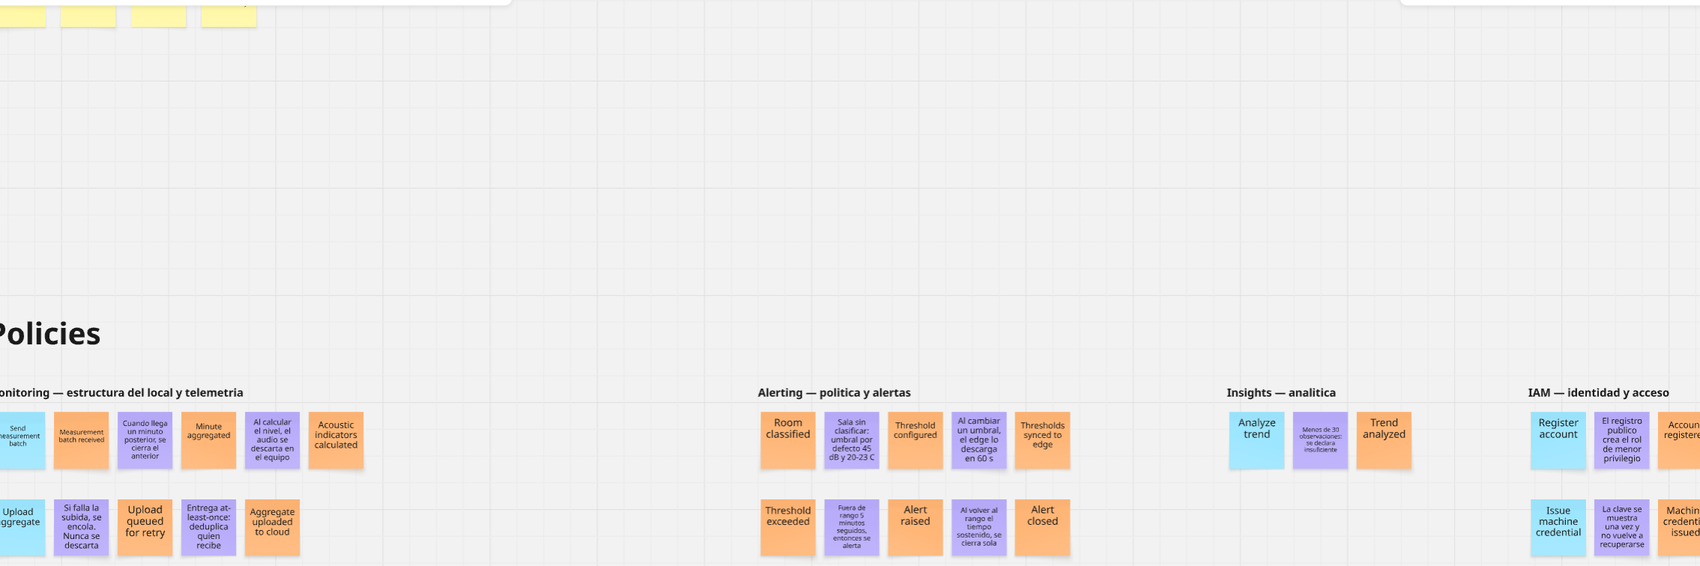
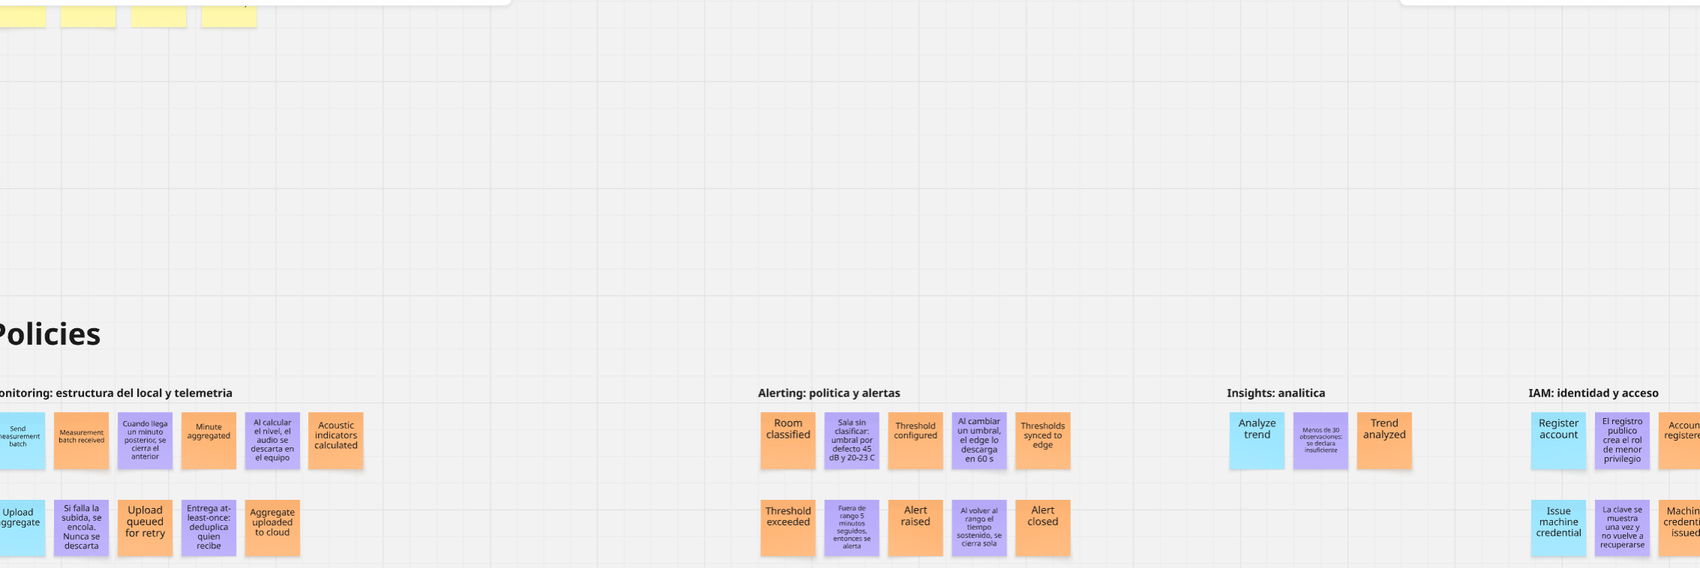
fix(chapter-4): redaccion en prosa y capturas mas cercanas en 4.1.1
Redaccion:

- Se retiran las rayas largas y las comillas angulares de todo el
  apartado y de los rotulos del board, que ahora usan dos puntos o
  parentesis.
- Los nombres de contextos, eventos y agregados pasan a texto normal.
  Monitoring, IAM, Minute aggregated o RoomReading se leian con estilo
  de codigo y color distinto, que no corresponde a un informe.
- Se elimina el meta-comentario sobre el propio metodo y se deja solo
  lo que describe el producto.
- La negrita se conserva para los titulos de paso y poco mas.

Capturas:

- Se rehacen las doce con el encuadre ajustado al contenido, sin
  margenes muertos ni recortes a medias.
- Se añaden tres vistas de detalle: el emparejamiento comando-evento
  en Monitoring, y el interior de los bounded contexts Monitoring y
  Alerting, que a pagina completa quedaban ilegibles.

Figuras renumeradas a 2-42, correlativas y sin duplicados.

diff --git a/README.md b/README.md
@@ -1231,140 +1231,152 @@ El punto de partida es el Big Picture EventStorming de la sección 2.4, que mode
 <a id="411-design-level-eventstorming"></a>
 ### 4.1.1. Design-Level EventStorming.
 
-La sesión de Design-Level EventStorming partió del Big Picture del apartado 2.4 y lo llevó al nivel de detalle que el diseño táctico necesita. El equipo trabajó sobre un único board, añadiendo **una capa por paso y dejando constancia de cada una antes de pasar a la siguiente**, de modo que el modelo pueda leerse como un proceso y no solo como un resultado. La secuencia recorrió nueve pasos.
+La sesión de Design-Level EventStorming partió del Big Picture del apartado 2.4 y lo llevó al nivel de detalle que necesita el diseño táctico. El equipo trabajó sobre un único board y fue añadiendo una capa por paso, dejando constancia de cada una antes de pasar a la siguiente. La secuencia recorrió nueve pasos.
 
 **Paso 1: Collect Domain Events**
 
-Se recogieron los hechos relevantes del dominio, redactados siempre en pasado y sobre post-its naranjas. En esta etapa no se discute el orden ni la causa: solo se enumera lo que ocurre. Salieron 25 eventos, desde la captura de una muestra en el sensor hasta el cierre de una alerta.
+Se recogieron los hechos relevantes del dominio, redactados siempre en pasado y sobre post-its naranjas. En esta etapa no se discute el orden ni la causa: solo se enumera lo que ocurre. Salieron treinta eventos, desde la captura de una muestra en el sensor hasta la revocación de una credencial.
 
-<p align="center"><img src="assets/event-storming/design-level/paso-1-collect-domain-events.png" alt="Paso 1 — Collect Domain Events" width="1000"></p>
+<p align="center"><img src="assets/event-storming/design-level/paso-1-collect-domain-events.png" alt="Paso 1. Collect Domain Events" width="1000"></p>
 
-<p align="center"><em>Figura 10.</em> Paso 1 — los 25 domain events recogidos sin orden.</p>
+<p align="center"><em>Figura 10.</em> Los treinta domain events recogidos sin orden.</p>
 
 **Paso 2: Timeline**
 
-Los mismos eventos se ordenaron cronológicamente de izquierda a derecha y se agruparon en las siete fases del proceso: captura en el dispositivo, procesamiento en el Edge, alertas locales, sincronización con la nube, configuración y alta, respuesta del administrador, y analítica. No se añadió ni se eliminó ningún evento; el paso consiste únicamente en darles secuencia.
+Los mismos eventos se ordenaron y se agruparon según la parte del dominio a la que pertenecen: la estructura del local y su telemetría, la política de alertas, la analítica y la identidad. No se añadió ni se eliminó ningún evento, porque el paso consiste únicamente en darles secuencia y vecindad.
 
-<p align="center"><img src="assets/event-storming/design-level/paso-2-timeline.png" alt="Paso 2 — Timeline" width="1000"></p>
+<p align="center"><img src="assets/event-storming/design-level/paso-2-timeline.png" alt="Paso 2. Timeline" width="1000"></p>
 
-<p align="center"><em>Figura 11.</em> Paso 2 — la línea temporal organizada en siete fases.</p>
+<p align="center"><em>Figura 11.</em> La línea temporal organizada por áreas del dominio.</p>
 
 **Paso 3: Pain and Pivotal Points**
 
-Sobre la línea temporal se marcaron dos cosas distintas. Los **pivotal events** son aquellos en los que el negocio cambia de estado y el vocabulario cambia con él: `MinuteAggregated`, `ThresholdExceeded`, `AggregateUploadedToCloud`, `RoomClassified` y `TrendAnalyzed`. Los **pain points** son las fricciones sin resolver: no se distingue una sala silenciosa de un dispositivo caído, el reintento del Edge puede duplicar un agregado, una sala nueva sin clasificar quedaría sin vigilancia, un miembro puede reportar disconfort con la medición en rango, el reloj sin sincronizar desordena el minuto, y la privacidad del audio debe poder demostrarse.
+Sobre la línea temporal se marcaron dos cosas distintas. Los pivotal events son aquellos en los que el negocio cambia de estado y el vocabulario cambia con él: Minute aggregated, Threshold exceeded, Room classified y Trend analyzed. Los pain points son las fricciones que quedaban sin resolver: no se distingue una sala silenciosa de un dispositivo caído, el reintento del Edge puede duplicar un agregado, una sala nueva sin clasificar quedaría sin vigilancia, un miembro puede reportar disconfort con la medición dentro de rango, el reloj sin sincronizar desordena el minuto y la privacidad del audio debe poder demostrarse.
 
-<p align="center"><img src="assets/event-storming/design-level/paso-3-pain-and-pivotal-points.png" alt="Paso 3 — Pain and Pivotal Points" width="1000"></p>
+<p align="center"><img src="assets/event-storming/design-level/paso-3-pain-and-pivotal-points.png" alt="Paso 3. Pain and Pivotal Points" width="1000"></p>
 
-<p align="center"><em>Figura 12.</em> Paso 3 — pivotal events y pain points identificados sobre la línea temporal.</p>
+<p align="center"><em>Figura 12.</em> Pivotal events y pain points señalados sobre la línea temporal.</p>
 
 **Paso 4: Commands**
 
-Se incorporaron los comandos que originan cada evento, en imperativo y sobre post-its azules, con el actor que los ejecuta encima. Aquí aparece una distinción que condiciona el diseño de seguridad: el **dispositivo IoT es un actor no humano** que ejecuta `Send Measurement Batch` sin intervención de nadie, de modo que su autenticación no puede ser la de una persona.
+Se incorporaron los comandos que originan cada evento, en imperativo y sobre post-its azules, colocando cada uno junto al evento que produce. Aquí aparece una distinción que condiciona el diseño de seguridad: el dispositivo IoT es un actor no humano que ejecuta Send measurement batch sin intervención de nadie, de modo que su autenticación no puede ser la de una persona.
 
-<p align="center"><img src="assets/event-storming/design-level/paso-4-commands.png" alt="Paso 4 — Commands" width="1000"></p>
+<p align="center"><img src="assets/event-storming/design-level/paso-4-commands.png" alt="Paso 4. Commands" width="1000"></p>
 
-<p align="center"><em>Figura 13.</em> Paso 4 — comandos y actores que los ejecutan.</p>
+<p align="center"><em>Figura 13.</em> Cada comando junto al evento que produce, y los actores que los ejecutan.</p>
+
+<p align="center"><img src="assets/event-storming/design-level/paso-4a-commands-monitoring.png" alt="Detalle del emparejamiento entre comandos y eventos" width="1000"></p>
+
+<p align="center"><em>Figura 14.</em> Detalle del área de Monitoring, donde se aprecia el emparejamiento entre cada comando y su evento.</p>
 
 **Paso 5: Policies**
 
-Se establecieron las reglas que reaccionan a un evento y producen otro, redactadas como *«cuando… entonces…»*. Cuatro de las ocho resuelven directamente un pain point del paso 3: el cierre por marca de agua resuelve el reloj sin sincronizar, la entrega at-least-once resuelve la duplicación del reintento, el umbral por defecto cubre la sala recién registrada, y el descarte del audio en el propio dispositivo sostiene la garantía de privacidad.
+Se establecieron las reglas que reaccionan a un evento y producen otro, redactadas como *cuando ocurre esto, entonces sucede aquello*. Varias de ellas resuelven directamente un pain point del paso anterior: el cierre por marca de agua resuelve el reloj sin sincronizar, la entrega at-least-once resuelve la duplicación del reintento, el umbral por defecto cubre la sala recién registrada y el descarte del audio en el propio dispositivo sostiene la garantía de privacidad.
 
-<p align="center"><img src="assets/event-storming/design-level/paso-5-policies.png" alt="Paso 5 — Policies" width="1000"></p>
+<p align="center"><img src="assets/event-storming/design-level/paso-5-policies.png" alt="Paso 5. Policies" width="1000"></p>
 
-<p align="center"><em>Figura 14.</em> Paso 5 — las ocho políticas de negocio y su trazabilidad con los pain points.</p>
+<p align="center"><em>Figura 15.</em> Las políticas de negocio intercaladas entre los eventos que las disparan y los que producen.</p>
 
 **Paso 6: Read Models**
 
 Se identificaron las vistas que alguien consulta para decidir. El criterio aplicado fue estricto: un read model solo existe si hay un actor concreto que lo mira y una decisión que depende de él. Salieron seis, desde el semáforo que consulta el miembro antes de reservar hasta el reporte histórico que sustenta una decisión de inversión.
 
-<p align="center"><img src="assets/event-storming/design-level/paso-6-read-models.png" alt="Paso 6 — Read Models" width="1000"></p>
+<p align="center"><img src="assets/event-storming/design-level/paso-6-read-models.png" alt="Paso 6. Read Models" width="1000"></p>
 
-<p align="center"><em>Figura 15.</em> Paso 6 — los seis read models y quién consulta cada uno.</p>
+<p align="center"><em>Figura 16.</em> Los read models colocados bajo los eventos que los alimentan.</p>
 
 **Paso 7: External Systems**
 
-Se señalaron los sistemas fuera del control del equipo: el proveedor meteorológico, el broker MQTT y el servicio de notificaciones. Ninguno se modela como parte del dominio; cada uno marca un punto de la frontera donde hará falta un adaptador que traduzca su lenguaje al propio.
+Se señalaron los sistemas que quedan fuera del control del equipo: el proveedor meteorológico, el broker MQTT y el servicio de notificaciones. Ninguno se modela como parte del dominio, y cada uno marca un punto de la frontera donde hará falta un adaptador que traduzca su lenguaje al propio.
 
-<p align="center"><img src="assets/event-storming/design-level/paso-7-external-systems.png" alt="Paso 7 — External Systems" width="1000"></p>
+<p align="center"><img src="assets/event-storming/design-level/paso-7-external-systems.png" alt="Paso 7. External Systems" width="1000"></p>
 
-<p align="center"><em>Figura 16.</em> Paso 7 — sistemas externos y puntos de integración.</p>
+<p align="center"><em>Figura 17.</em> Sistemas externos situados en sus puntos de integración.</p>
 
 **Paso 8: Aggregates**
 
-Los comandos y eventos que operan sobre la misma entidad se agruparon en unidades consistentes. Resultaron ocho agregados: `Site`, `Room`, `Device`, `RoomReading`, `Threshold`, `Alert`, `Analysis` y `Account`. Los cuatro primeros comparten la misma raíz —la estructura física del local— y por eso terminan juntos en el paso siguiente.
+Los comandos y eventos que operan sobre la misma entidad se agruparon en unidades consistentes. Resultaron ocho agregados: Site, Room, Device, RoomReading, Threshold, Alert, Analysis y Account. Los cuatro primeros comparten la misma raíz, que es la estructura física del local, y por eso terminan juntos en el paso siguiente.
 
-<p align="center"><img src="assets/event-storming/design-level/paso-8-aggregates.png" alt="Paso 8 — Aggregates" width="1000"></p>
+<p align="center"><img src="assets/event-storming/design-level/paso-8-aggregates.png" alt="Paso 8. Aggregates" width="1000"></p>
 
-<p align="center"><em>Figura 17.</em> Paso 8 — los ocho agregados y los eventos que encapsula cada uno.</p>
+<p align="center"><em>Figura 18.</em> Los ocho agregados rotulando los eventos que encapsula cada uno.</p>
 
 **Paso 9: Bounded Contexts**
 
-Por último se trazaron las fronteras sobre los agregados, siguiendo los pivotal events del paso 3. El resultado son cuatro bounded contexts: `Monitoring` e `Insights` como núcleo, `Alerting` como soporte e `IAM` como subdominio genérico. Los tres sistemas externos quedan fuera de toda frontera.
+Por último se trazaron las fronteras sobre los agregados, siguiendo los pivotal events del paso 3. El resultado son cuatro bounded contexts: Monitoring e Insights como núcleo, Alerting como soporte e IAM como subdominio genérico. Los tres sistemas externos quedan fuera de toda frontera.
 
-<p align="center"><img src="assets/event-storming/design-level/paso-9-bounded-contexts.png" alt="Paso 9 — Bounded Contexts" width="1000"></p>
+<p align="center"><img src="assets/event-storming/design-level/paso-9-bounded-contexts.png" alt="Paso 9. Bounded Contexts" width="1000"></p>
 
-<p align="center"><em>Figura 18.</em> Paso 9 — los cuatro bounded contexts resultantes con su clasificación estratégica.</p>
+<p align="center"><em>Figura 19.</em> Los cuatro bounded contexts con su clasificación estratégica.</p>
+
+<p align="center"><img src="assets/event-storming/design-level/paso-9a-monitoring.png" alt="Detalle del bounded context Monitoring" width="1000"></p>
+
+<p align="center"><em>Figura 20.</em> Detalle del bounded context Monitoring con los agregados, comandos, eventos, políticas y read models que encierra.</p>
+
+<p align="center"><img src="assets/event-storming/design-level/paso-9b-alerting.png" alt="Detalle del bounded context Alerting" width="1000"></p>
+
+<p align="center"><em>Figura 21.</em> Detalle del bounded context Alerting.</p>
 
 <a id="4111-candidate-context-discovery"></a>
 #### <i>**4.1.1.1 Candidate Context Discovery.**</i>
 
-A partir del EventStorm ya refinado, el equipo realizó una sesión específica para identificar los bounded contexts. Las tres técnicas disponibles no se usaron como alternativas sino **en cascada**: cada una aporta una lectura distinta y las tres tenían que coincidir antes de dar una frontera por buena.
+A partir del EventStorm ya refinado, el equipo realizó una sesión específica para identificar los bounded contexts. Las tres técnicas disponibles no se usaron como alternativas sino de forma encadenada, porque cada una aporta una lectura distinta y las tres tenían que coincidir antes de dar una frontera por buena.
 
 **1. Start-with-Value**
 
-Se empezó clasificando por aporte al negocio. `Monitoring` es core porque sin medición objetiva no hay producto que vender, e `Insights` también lo es porque es lo que separa la solución de un termómetro con memoria. `Alerting` es supporting: necesario para que la medición sirva de algo, pero no es donde reside la ventaja competitiva. `IAM` es un subdominio genérico, con el problema ya resuelto en la industria. La clasificación resultante es la que rotula cada frontera en la Figura 18.
+Se empezó clasificando por aporte al negocio. Monitoring es core porque sin medición objetiva no hay producto que vender, e Insights también lo es porque es lo que separa la solución de un termómetro con memoria. Alerting es supporting, ya que resulta necesario para que la medición sirva de algo pero no es donde reside la ventaja competitiva. IAM es un subdominio genérico, con el problema ya resuelto en la industria. Esa clasificación es la que rotula cada frontera en la Figura 20.
 
 **2. Start-with-Simple**
 
-Para no perderse en la complejidad, se descompuso el recorrido en seis pasos secuenciales —medir, agregar, comparar con la política, avisar, responder y explicar— y se preguntó a quién corresponde cada uno. Medir y agregar pertenecen a quien posee la estructura del local; comparar y avisar dependen de una política que alguien configura por separado; explicar necesita historia acumulada y no el instante. Tres responsabilidades que no cambian por las mismas razones, y que en la Figura 11 ya aparecen separadas en columnas.
+Para no perderse en la complejidad se descompuso el recorrido en seis pasos secuenciales, que son medir, agregar, comparar con la política, avisar, responder y explicar, y se preguntó a quién corresponde cada uno. Medir y agregar pertenecen a quien posee la estructura del local; comparar y avisar dependen de una política que alguien configura por separado; explicar necesita historia acumulada y no el instante. Son tres responsabilidades que no cambian por las mismas razones, y en la Figura 11 ya aparecen separadas en columnas.
 
 **3. Look-for-Pivotal-Events**
 
-Los pivotal events marcados en el paso 3 se leyeron como fronteras, citando en cada caso los dos lados que separa:
+Los pivotal events marcados en el paso 3 se leyeron como fronteras, citando en cada caso los dos lados que separan:
 
-- `MinuteAggregated` — frontera entre el Edge y `Monitoring`: antes es muestra cruda, después es telemetría del dominio.
-- `RoomClassified` — frontera entre `Monitoring` y `Alerting`: la sala pasa a tener una política aplicable.
-- `ThresholdExceeded` — frontera entre `Alerting` y `Monitoring`: la medición pasa a ser política incumplida.
-- `TrendAnalyzed` — frontera entre `Monitoring` e `Insights`: la serie deja de ser dato y pasa a ser conclusión.
+- Minute aggregated es la frontera entre el Edge y Monitoring: antes es muestra cruda y después es telemetría del dominio.
+- Room classified es la frontera entre Monitoring y Alerting, porque la sala pasa a tener una política aplicable.
+- Threshold exceeded es la frontera entre Alerting y Monitoring, ya que la medición pasa a ser política incumplida.
+- Trend analyzed es la frontera entre Monitoring e Insights: la serie deja de ser dato y pasa a ser conclusión.
 
-Los cinco quedan marcados sobre la línea temporal en la Figura 12.
+Los cuatro quedan marcados sobre la línea temporal en la Figura 12.
 
-`AggregateUploadedToCloud` se descartó como frontera de modelo. Separa dos zonas de despliegue del mismo contexto, no dos lenguajes distintos, y tratarlo como bounded context habría creado uno que el nivel táctico no necesita desarrollar.
+El evento Aggregate uploaded to cloud se descartó como frontera de modelo. Separa dos zonas de despliegue del mismo contexto y no dos lenguajes distintos, de modo que tratarlo como bounded context habría creado uno que el nivel táctico no necesita desarrollar.
 
 **Agrupamientos y consolidación**
 
-El primer agrupamiento reunió lo evidente: `IAM` alrededor de `Account` y `Alerting` alrededor de `Threshold` y `Alert`. El segundo aisló los contextos centrales, y fue el que más discusión costó, porque `Monitoring` e `Insights` hablan ambos de lecturas. Se separaron por dos razones: cambian por motivos distintos —uno por cómo se captura el dato, otro por cómo se interpreta— y `Insights` puede estar caído sin que la medición se detenga. El resultado de ambas rondas es el que encierra cada frontera en la Figura 18.
+El primer agrupamiento reunió lo evidente: IAM alrededor de Account, y Alerting alrededor de Threshold y Alert. El segundo aisló los contextos centrales y fue el que más discusión costó, porque Monitoring e Insights hablan ambos de lecturas. Se separaron por dos razones: cambian por motivos distintos, uno por cómo se captura el dato y otro por cómo se interpreta, y además Insights puede estar caído sin que la medición se detenga. El resultado de ambas rondas es el que encierra cada frontera en la Figura 20.
 
-La consolidación final deja **cuatro bounded contexts** —`Monitoring`, `Insights`, `Alerting` e `IAM`—, que son exactamente los que desarrolla el nivel táctico en el apartado 4.2.
+La consolidación final deja cuatro bounded contexts, que son Monitoring, Insights, Alerting e IAM, y coinciden exactamente con los que desarrolla el nivel táctico en el apartado 4.2.
 
 <a id="4112-domain-message-flows-modeling"></a>
 #### <i>**4.1.1.2 Domain Message Flows Modeling.**</i>
 
-Identificados los contextos, la pregunta deja de ser qué hace cada uno y pasa a ser **cómo colaboran para resolver un caso completo del negocio**. Para visualizarlo se aplicó Domain Storytelling: cada diagrama nombra los actores implicados —humanos y sistemas—, los objetos de trabajo que se transfieren entre ellos y las actividades numeradas que van en orden, de modo que el conjunto se lee como una frase. Se modelaron tres escenarios: el principal de operación, el de instalación y el de fallo.
+Identificados los contextos, la pregunta deja de ser qué hace cada uno y pasa a ser cómo colaboran para resolver un caso completo del negocio. Para visualizarlo se aplicó Domain Storytelling: cada diagrama nombra los actores implicados, tanto humanos como sistemas, los objetos de trabajo que se transfieren entre ellos y las actividades numeradas que marcan el orden, de modo que el conjunto se lee como una frase. Se modelaron tres escenarios: el principal de operación, el de instalación y el de fallo.
 
-**Escenario 1 — Disconfort acústico en una sala**
+**Escenario 1. Disconfort acústico en una sala**
 
-<p align="center"><img src="assets/domain-storytelling/ds-1-disconfort-acustico.png" alt="Domain Storytelling — disconfort acústico" width="1000"></p>
+<p align="center"><img src="assets/domain-storytelling/ds-1-disconfort-acustico.png" alt="Domain Storytelling del escenario de disconfort acústico" width="1000"></p>
 
-<p align="center"><em>Figura 19.</em> Domain Storytelling del escenario de disconfort acústico.</p>
+<p align="center"><em>Figura 22.</em> Domain Storytelling del escenario de disconfort acústico.</p>
 
-El flujo deja ver tres decisiones de reparto. La primera es que **el Edge evalúa los umbrales, no el cloud**: consulta los límites y decide localmente, de modo que una caída de internet no deja la sala sin vigilancia. La segunda es que `Monitoring` es el único que recibe telemetría y el único al que los demás preguntan, lo que lo convierte en el proveedor del que dependen `Alerting` e `Insights`. La tercera es que el administrador recorre tres contextos en una sola tarea —ve el estado, entiende la causa, ajusta la política—, y esa continuidad obliga a que las fronteras sean invisibles para él aunque sean estrictas por dentro.
+El flujo deja ver tres decisiones de reparto. La primera es que el Edge evalúa los umbrales y no el cloud: consulta los límites y decide localmente, de modo que una caída de internet no deja la sala sin vigilancia. La segunda es que Monitoring es el único que recibe telemetría y el único al que los demás preguntan, lo que lo convierte en el proveedor del que dependen Alerting e Insights. La tercera es que el administrador recorre tres contextos en una sola tarea, porque ve el estado, entiende la causa y ajusta la política, y esa continuidad obliga a que las fronteras sean invisibles para él aunque sean estrictas por dentro.
 
-**Escenario 2 — Alta de un local y sus salas**
+**Escenario 2. Alta de un local y sus salas**
 
-<p align="center"><img src="assets/domain-storytelling/ds-2-alta-de-local.png" alt="Domain Storytelling — alta de un local" width="1000"></p>
+<p align="center"><img src="assets/domain-storytelling/ds-2-alta-de-local.png" alt="Domain Storytelling del escenario de instalación" width="1000"></p>
 
-<p align="center"><em>Figura 20.</em> Domain Storytelling del escenario de instalación de un local.</p>
+<p align="center"><em>Figura 23.</em> Domain Storytelling del escenario de instalación de un local.</p>
 
-La instalación recorre los tres contextos que el administrador toca: `IAM` para las credenciales propias y la clave de máquina del dispositivo, `Monitoring` para la estructura del local, y `Alerting` para la política. El paso de clasificar cada sala es el que evita el pain point de la sala sin vigilancia; si se omite, la política de umbral por defecto la cubre igualmente, lo que hace que el sistema nunca quede ciego por un olvido en la instalación.
+La instalación recorre los tres contextos que el administrador toca: IAM para las credenciales propias y la clave de máquina del dispositivo, Monitoring para la estructura del local y Alerting para la política. El paso de clasificar cada sala es el que evita el pain point de la sala sin vigilancia, y si se omite la política de umbral por defecto la cubre igualmente, lo que hace que el sistema nunca quede ciego por un olvido durante la instalación.
 
-**Escenario 3 — Pérdida de conexión del Edge**
+**Escenario 3. Pérdida de conexión del Edge**
 
-<p align="center"><img src="assets/domain-storytelling/ds-3-perdida-de-conexion.png" alt="Domain Storytelling — pérdida de conexión" width="1000"></p>
+<p align="center"><img src="assets/domain-storytelling/ds-3-perdida-de-conexion.png" alt="Domain Storytelling del escenario de pérdida de conexión" width="1000"></p>
 
-<p align="center"><em>Figura 21.</em> Domain Storytelling del escenario de pérdida de conexión del Edge.</p>
+<p align="center"><em>Figura 24.</em> Domain Storytelling del escenario de pérdida de conexión del Edge.</p>
 
-Este escenario es el que justifica tres decisiones de diseño a la vez. El Edge conserva los umbrales en caché y mantiene la vigilancia local mientras no hay internet; el agregado que no consigue subir se encola en lugar de descartarse; y, como la entrega es at-least-once, la deduplicación por sala y minuto corresponde a quien recibe. El testamento de desconexión del broker es lo que permite distinguir una sala silenciosa de un dispositivo caído, que era el primero de los pain points sin resolver.
+Este escenario justifica tres decisiones de diseño a la vez. El Edge conserva los umbrales en caché y mantiene la vigilancia local mientras no hay internet; el agregado que no consigue subir se encola en lugar de descartarse; y, como la entrega es at-least-once, la deduplicación por sala y minuto corresponde a quien recibe. El testamento de desconexión del broker es lo que permite distinguir una sala silenciosa de un dispositivo caído, que era el primero de los pain points sin resolver.
 
 
 <a id="4113-bounded-context-canvases"></a>
@@ -1460,7 +1472,7 @@ flowchart TB
     iam --- sha
 ```
 
-<p align="center"><em>Figura 22.</em> Context map de la solución, con el patrón que gobierna cada relación.</p>
+<p align="center"><em>Figura 25.</em> Context map de la solución, con el patrón que gobierna cada relación.</p>
 
 **Anti-corruption Layer.** Es el patrón que protege las tres dependencias salientes. `insights` y `alerting` no conocen el modelo de `monitoring`: declaran puertos con su propio vocabulario —`ReadingSeriesProvider` pide una serie de `ReadingPoint`, `RoomProfileProvider` pide una lista de `RoomProfile`— y un único componente traduce. La sala de `monitoring` tiene aforo, planta, superficie y última lectura; en `alerting` una sala es un código y un tipo, y nada más. Esa reducción es la que impide que un cambio en el modelo del proveedor se propague a sus consumidores. El mismo patrón aísla a `insights` de OpenWeather: `OutdoorWeatherProvider` expresa la necesidad de clima exterior, y el adaptador absorbe el formato del proveedor.
 
@@ -1514,7 +1526,7 @@ flowchart TB
     sistema -->|"se distribuye a través de"| stores
 ```
 
-<p align="center"><em>Figura 23.</em> System Landscape Diagram de la solución ZenRoom.</p>
+<p align="center"><em>Figura 26.</em> System Landscape Diagram de la solución ZenRoom.</p>
 
 Los tres actores se corresponden con los segmentos objetivo del capítulo I. El visitante no es un usuario del producto sino del Landing Page, y se incluye porque la conversión forma parte del alcance evaluado. OpenWeather es el servicio externo de terceros que la arquitectura de la solución exige consumir, y sostiene la correlación entre temperatura interior y exterior.
 
@@ -1542,7 +1554,7 @@ flowchart TB
     sistema -->|"solicita las condiciones exteriores<br/>[HTTPS/JSON]"| ow
 ```
 
-<p align="center"><em>Figura 24.</em> Software Architecture Context Level Diagram.</p>
+<p align="center"><em>Figura 27.</em> Software Architecture Context Level Diagram.</p>
 
 Desde fuera, el sistema es una sola cosa que responde a tres preguntas: si una sala está en condiciones ahora, por qué no lo está cuando falla, y qué hay que cambiar para que deje de fallar. El único sistema externo del que depende es el proveedor meteorológico, y esa dependencia es degradable: si no responde, la solución sigue funcionando y solo pierde la correlación con el exterior.
 
@@ -1594,7 +1606,7 @@ flowchart TB
     landing -.->|"deriva por segmento"| mobile
 ```
 
-<p align="center"><em>Figura 25.</em> Software Architecture Container Level Diagram.</p>
+<p align="center"><em>Figura 28.</em> Software Architecture Container Level Diagram.</p>
 
 El reparto entre las tres capas responde a tres restricciones distintas. El **dispositivo** calcula los indicadores acústicos en el propio microcontrolador porque el audio no puede salir de la sala. El **Edge** agrega por minuto y evalúa los umbrales localmente, de modo que una caída de internet no deja el local sin vigilancia, y encola lo que no ha podido subir. El **cloud** guarda la historia larga y resuelve lo que exige varias salas o varias semanas, que es donde vive la analítica.
 
@@ -1644,7 +1656,7 @@ flowchart TB
     disp_mov -->|"HTTPS/JSON"| cont_api
 ```
 
-<p align="center"><em>Figura 26.</em> Software Architecture Deployment Diagram del entorno de desarrollo.</p>
+<p align="center"><em>Figura 29.</em> Software Architecture Deployment Diagram del entorno de desarrollo.</p>
 
 La aplicación se empaqueta con un `Dockerfile` de dos etapas: la primera compila con el JDK 21 y resuelve las dependencias en una capa separada del código fuente, de modo que un cambio en el código no obliga a volver a descargarlas; la segunda parte de una imagen de solo ejecución y copia únicamente el artefacto, ejecutándolo con un usuario sin privilegios. La memoria se limita por porcentaje del contenedor en lugar de por un valor fijo, para que la misma imagen sirva en máquinas distintas.
 
@@ -1778,7 +1790,7 @@ flowchart TB
     repo -->|"JDBC"| db
 ```
 
-<p align="center"><em>Figura 27.</em> Diagrama de componentes del bounded context Alerting dentro del container cloud-api.</p>
+<p align="center"><em>Figura 30.</em> Diagrama de componentes del bounded context Alerting dentro del container cloud-api.</p>
 
 El contexto expone dos controladores porque atiende a dos consumidores con necesidades distintas. El administrador configura umbrales **por tipo de sala**, que es como se razona el negocio: todas las cabinas de llamadas comparten límite. El Edge, en cambio, evalúa **por sala concreta** y no conoce la taxonomía de tipos, de modo que `ResolveRoomThresholdsUseCaseImpl` hace la traducción y cachea por tipo para no repetir la consulta una vez por sala. `ExternalMonitoringService` es el único componente que conoce la existencia de `monitoring`, y lo hace a través de su fachada, nunca de sus repositorios.
 
@@ -1875,7 +1887,7 @@ classDiagram
     RoomProfileProvider ..> RoomProfile : entrega
 ```
 
-<p align="center"><em>Figura 28.</em> Diagrama de clases del Domain Layer del bounded context Alerting.</p>
+<p align="center"><em>Figura 31.</em> Diagrama de clases del Domain Layer del bounded context Alerting.</p>
 
 `Threshold` es a la vez entidad y raíz de agregado: no contiene entidades hijas, y su identidad y su tipo de sala son inmutables, porque cambiar cualquiera de los dos significa que el umbral es otro. Los métodos `isBreachedBy` e `isCriticalFor` responden únicamente por el valor; la comprobación de que el incumplimiento se sostenga durante `sustainedMinutes` no vive en la entidad, ya que un umbral conoce su propio límite pero no la serie temporal que lo pone a prueba.
 
@@ -1911,7 +1923,7 @@ erDiagram
     }
 ```
 
-<p align="center"><em>Figura 29.</em> Diagrama de base de datos del bounded context Alerting.</p>
+<p align="center"><em>Figura 32.</em> Diagrama de base de datos del bounded context Alerting.</p>
 
 La columna `room_type_id` es la única referencia de la tabla y **no lleva clave foránea**, a diferencia del resto del modelo de datos de la solución. La tabla a la que apunta, `room_type`, pertenece al esquema `monitoring`, y declarar una restricción física entre ambos esquemas ataría los dos bounded contexts a nivel de base de datos: cualquier cambio en la estructura de salas obligaría a coordinar un despliegue conjunto, y el límite entre contextos dejaría de ser real. La integridad se mantiene en la capa de aplicación, a través del puerto `RoomProfileProvider` descrito en el Domain Layer, que es la única vía por la que este contexto conoce las salas.
 
@@ -2058,7 +2070,7 @@ flowchart TB
     repos -->|"JDBC"| db
 ```
 
-<p align="center"><em>Figura 30.</em> Diagrama de componentes del bounded context IAM dentro del container cloud-api.</p>
+<p align="center"><em>Figura 33.</em> Diagrama de componentes del bounded context IAM dentro del container cloud-api.</p>
 
 Los dos caminos de autenticación conviven en la misma cadena de filtros y terminan en el mismo modelo de dominio, pero no comparten mecanismo de verificación. La persona presenta correo y contraseña una vez y recibe un token firmado que acompaña a las peticiones siguientes; la máquina presenta su clave en cada petición, y por eso su hash debe ser determinista e indexable. Esa asimetría es la que justifica que `BCryptPasswordHasher` y `Sha256ApiKeyHasher` sean componentes distintos y no dos usos de uno solo.
 
@@ -2192,7 +2204,7 @@ classDiagram
     ApiKeyHasher ..> ApiCredential : verifica la clave de
 ```
 
-<p align="center"><em>Figura 31.</em> Diagrama de clases del Domain Layer del bounded context IAM.</p>
+<p align="center"><em>Figura 34.</em> Diagrama de clases del Domain Layer del bounded context IAM.</p>
 
 La separación entre persona y máquina no es cosmética: determina cómo se guarda cada secreto. La contraseña de una persona se cifra con un algoritmo lento y con sal, de modo que dos cuentas con la misma contraseña producen hashes distintos; la clave del Edge, en cambio, se reduce a un hash determinista, porque el sistema necesita localizar la credencial a partir de la clave que llega en cada petición, y eso exige una columna indexable. Esa diferencia justifica que existan dos puertos, `PasswordHasher` y `ApiKeyHasher`, en lugar de uno solo.
 
@@ -2245,7 +2257,7 @@ erDiagram
     }
 ```
 
-<p align="center"><em>Figura 32.</em> Diagrama de base de datos del bounded context IAM.</p>
+<p align="center"><em>Figura 35.</em> Diagrama de base de datos del bounded context IAM.</p>
 
 Las dos tablas de unión llevan clave primaria compuesta —`(user_id, role)` y `(credential_id, scope)`—, lo que impide conceder dos veces el mismo permiso sin necesidad de una restricción adicional, y se borran en cascada con su identidad: un rol sin persona a la que pertenecer no significa nada.
 
@@ -2375,7 +2387,7 @@ flowchart TB
     repo -->|"JDBC"| db
 ```
 
-<p align="center"><em>Figura 33.</em> Diagrama de componentes del bounded context Insights dentro del container cloud-api.</p>
+<p align="center"><em>Figura 36.</em> Diagrama de componentes del bounded context Insights dentro del container cloud-api.</p>
 
 Este contexto es el que consume el **servicio externo de terceros** exigido por la arquitectura de la solución. La correlación entre temperatura interior y exterior solo puede calcularse hacia atrás si el histórico exterior existe, y OpenWeather sirve el clima actual, no el pasado; por eso `OutdoorWeatherSampler` acumula observaciones periódicamente en lugar de consultarlas en el momento del análisis. Si el servicio externo no responde, la analítica se degrada de forma controlada: el resto de indicadores se calcula igual y solo la correlación interior-exterior se declara sin datos suficientes.
 
@@ -2499,7 +2511,7 @@ classDiagram
     WeatherObservationRepository ..> WeatherObservation : persiste
 ```
 
-<p align="center"><em>Figura 34.</em> Diagrama de clases del Domain Layer del bounded context Insights.</p>
+<p align="center"><em>Figura 37.</em> Diagrama de clases del Domain Layer del bounded context Insights.</p>
 
 `Correlation` y `Trend` comparten un rasgo que ordena todo el contexto: **ninguna conclusión viaja sin su tamaño de muestra**. Ambos exponen `isReliable()` y un constructor estático `insufficientData`, de modo que la falta de datos es un resultado legítimo y no una excepción. Un coeficiente de correlación calculado sobre cinco minutos de lecturas es aritméticamente válido y estadísticamente inútil; obligar a que el valor viaje acompañado del número de muestras impide presentarlo como si significara algo. Por eso `Correlation.strength()` devuelve `insufficient_data` antes que una etiqueta cualitativa cuando no se alcanza el mínimo de treinta observaciones.
 
@@ -2523,7 +2535,7 @@ erDiagram
     }
 ```
 
-<p align="center"><em>Figura 35.</em> Diagrama de base de datos del bounded context Insights.</p>
+<p align="center"><em>Figura 38.</em> Diagrama de base de datos del bounded context Insights.</p>
 
 La tabla no guarda ninguna referencia a salas ni a locales, y es deliberado: el clima exterior no pertenece a ninguna sala en particular, sino al momento. La correlación entre temperatura interior y exterior se resuelve en la capa de aplicación, emparejando cada observación con la lectura más próxima en el tiempo a través del puerto `ReadingSeriesProvider`. Persistir aquí una clave de `monitoring` ataría los dos contextos sin ganar nada.
 
@@ -2659,7 +2671,7 @@ flowchart TB
     repos -->|"JDBC"| db
 ```
 
-<p align="center"><em>Figura 36.</em> Diagrama de componentes del bounded context Monitoring dentro del container cloud-api.</p>
+<p align="center"><em>Figura 39.</em> Diagrama de componentes del bounded context Monitoring dentro del container cloud-api.</p>
 
 `ReadingsController` es el único punto por el que entra telemetría, y `IngestReadingsUseCaseImpl` concentra las tres responsabilidades que hacen tolerante la ingesta: deduplica por sala y minuto, porque el Edge entrega con garantía *at-least-once*; autoprovisiona la sala y el dispositivo cuando reportan por primera vez, de modo que instalar un módulo no exige configurar nada por adelantado; y refleja el estado del dispositivo descartando los lotes que llegan fuera de orden.
 
@@ -2798,7 +2810,7 @@ classDiagram
     RoomReading "1" *-- "1" DataQuality : quality
 ```
 
-<p align="center"><em>Figura 37.</em> Modelo del Domain Layer del bounded context Monitoring.</p>
+<p align="center"><em>Figura 40.</em> Modelo del Domain Layer del bounded context Monitoring.</p>
 
 ```mermaid
 classDiagram
@@ -2872,7 +2884,7 @@ classDiagram
     RoomReadingRepository ..> RoomReading : persiste
 ```
 
-<p align="center"><em>Figura 38.</em> Puertos de persistencia y catálogo de errores del bounded context Monitoring.</p>
+<p align="center"><em>Figura 41.</em> Puertos de persistencia y catálogo de errores del bounded context Monitoring.</p>
 
 `RoomReading` compone cinco value objects en lugar de aplanar veinte campos sueltos, y cada uno responde por una dimensión del confort con su propio vocabulario: `AcousticMetrics` expone `backgroundNoise()` e `intrusivePeaks()`, que devuelven los percentiles L90 y L10 de la norma ISO 1996 bajo el nombre que usa el negocio; `ThermalComfort` conoce el umbral de PPD del 10 % que la norma ASHRAE 55 considera aceptable. Los cinco ofrecen un constructor estático para el caso vacío —`empty()`, `vacant()`, `unknown()`—, de modo que una lectura a la que le falta un sensor se representa sin recurrir a valores nulos dispersos por el agregado.
 
@@ -2976,7 +2988,7 @@ erDiagram
     }
 ```
 
-<p align="center"><em>Figura 39.</em> Diagrama de base de datos del bounded context Monitoring.</p>
+<p align="center"><em>Figura 42.</em> Diagrama de base de datos del bounded context Monitoring.</p>
 
 Las cuatro tablas de estructura llevan auditoría completa y borrado lógico porque las edita una persona. **`room_reading` no lleva ninguna de esas columnas, y es deliberado**: es telemetría inmutable generada por máquina, nadie edita ni borra la lectura de un sensor, y esas cinco columnas estarían vacías en cientos de miles de filas. Su trazabilidad es el par `ts` y `received_at` —el minuto que describe frente al instante en que llegó—, cuya diferencia delata cortes de red y relojes desincronizados en el dispositivo.
 
